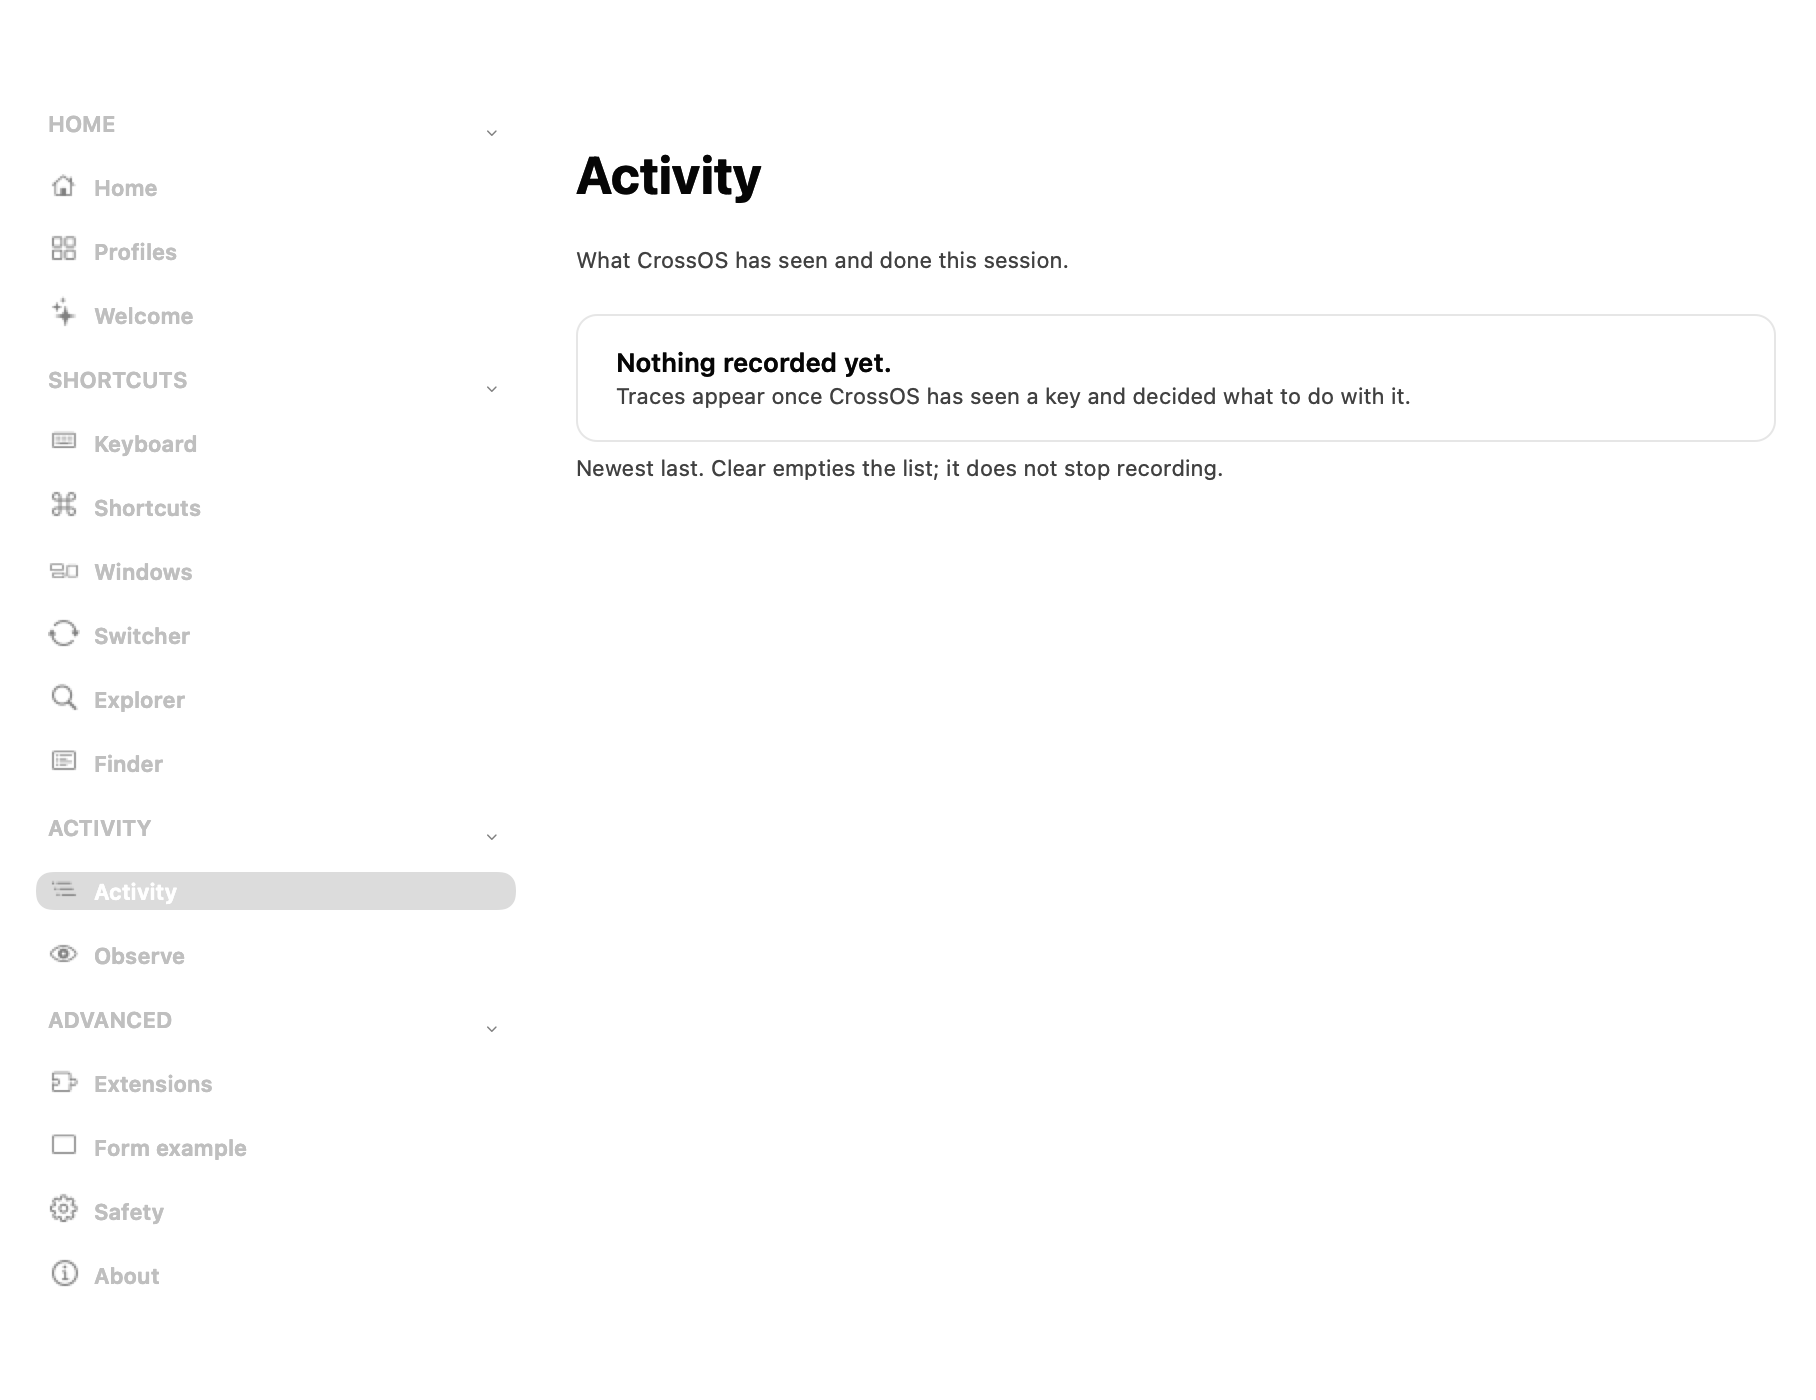
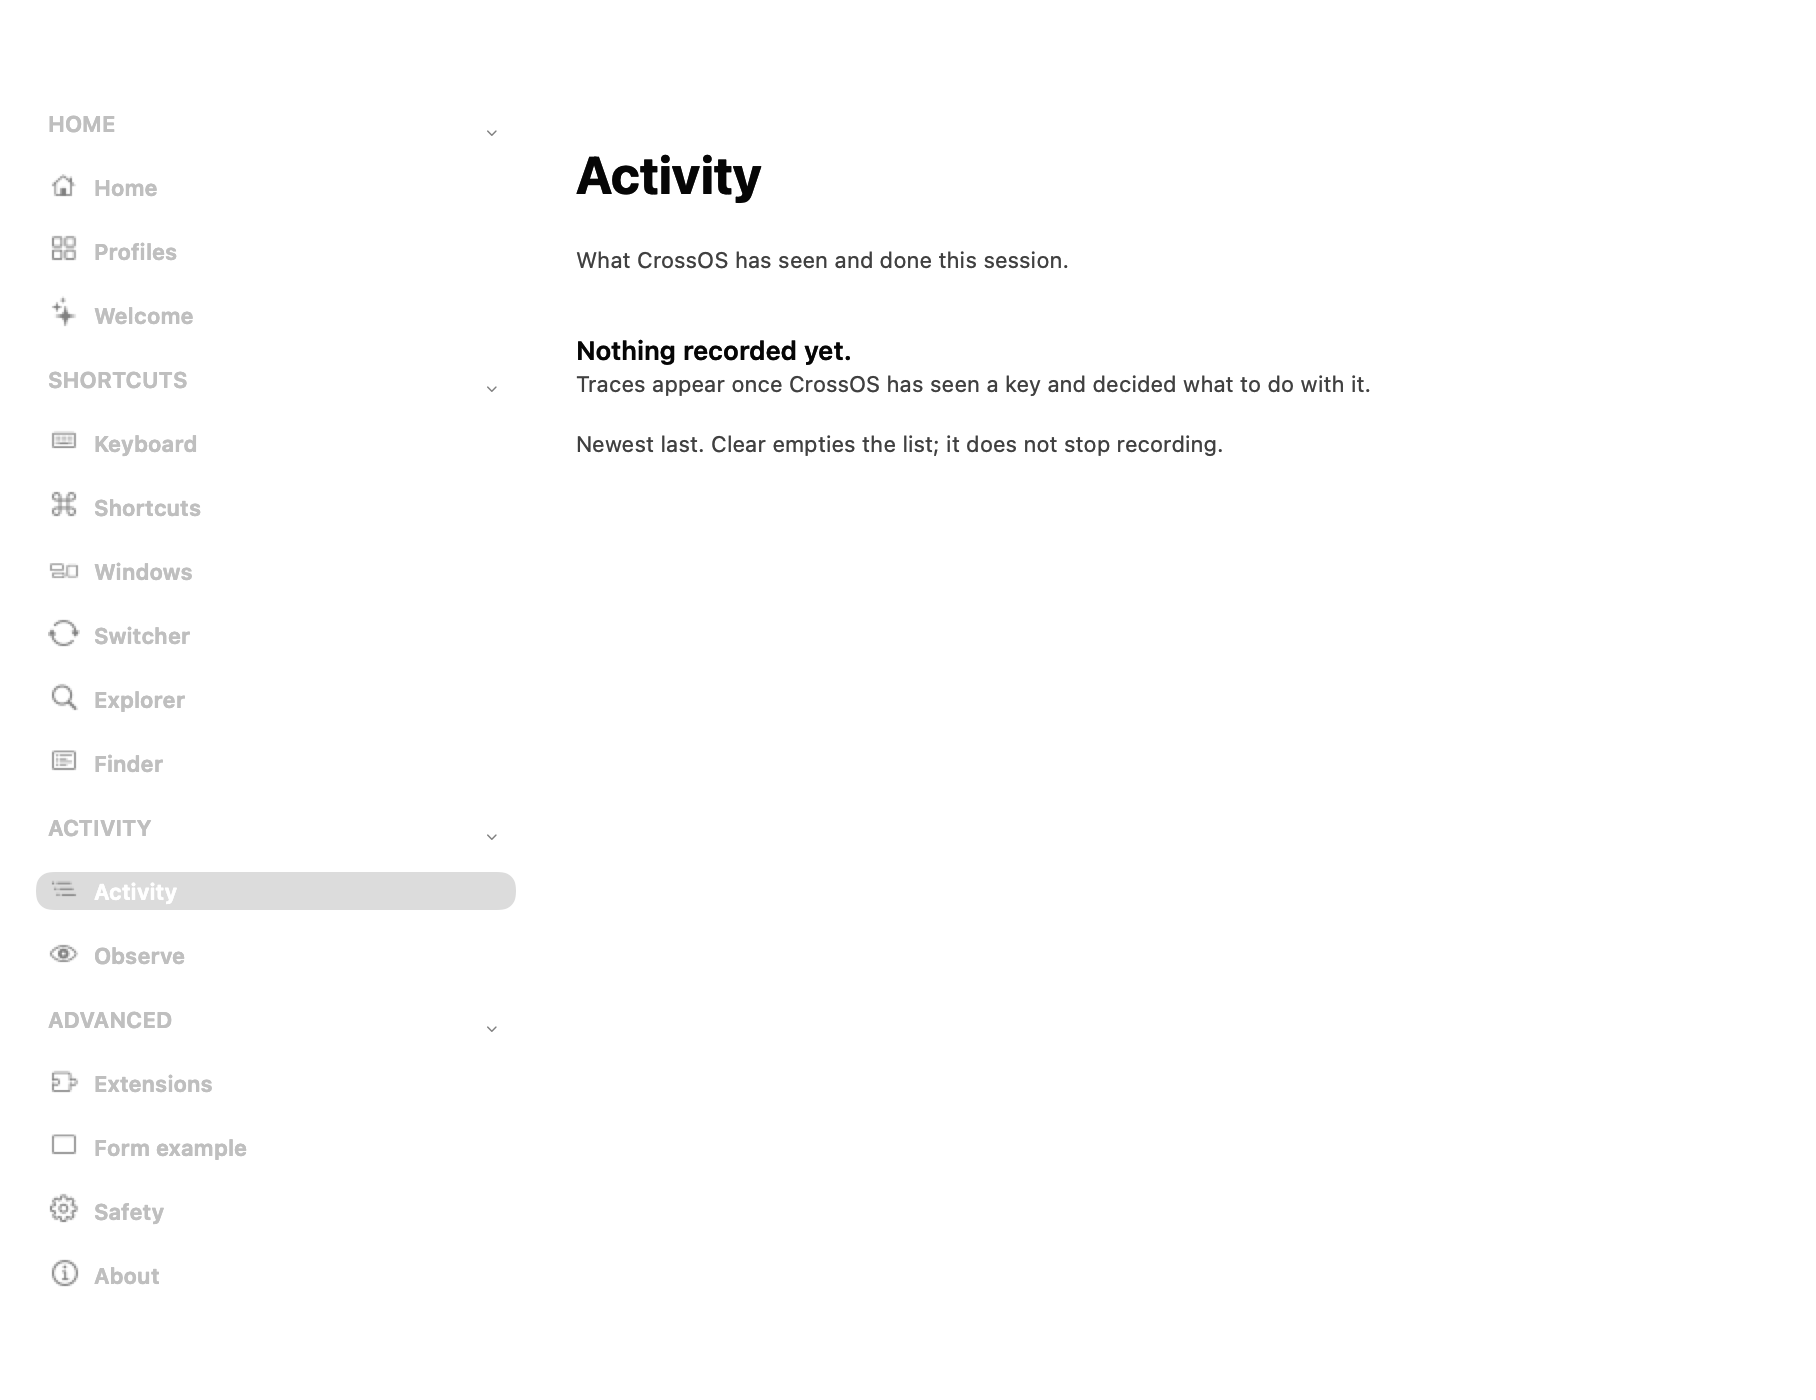
feat: the groups stop being cards — this is the design mistake, named
Eight commits of layout fixes, and the thing that made every page look
like a web form was a **design** decision I never questioned: a rounded
`controlBackgroundColor` fill with a hairline round it, around every
group.

**That is the iOS and Settings.app treatment. System Settings does not
do it.** Its content sits directly on the window background and a group
is made of SPACING and a shared left edge, not of a box. Measured before
this change, on `core.matrix` and on every page shaped like it: a title,
a sentence, a large bordered box, a caption, another bordered box, and
forty per cent of the window empty below. That is a web form with cards
— which is what it looked like, and what the complaint was.

So the group draws nothing. The hierarchy is carried by the type and the
rhythm instead of by a border around everything, which is the trade
System Settings makes too: a group of one-line rows is less obviously a
group at a glance, and a window looks like a window.

Two things the boxes were carrying that now have to be carried
differently, and both were measured:

**The measure was CENTRED, and centring only made sense while the box
existed.** With a box there was something to centre; without one it is
a column floating in the middle of the pane with the whole left margin
empty. Content is now against the pane's leading edge with the right
side free, which is what System Settings does: the 640pt is a limit on
how long a line gets, not a column to centre.
[…]

Changed region(s): [[0.3084, 0.2457, 0.7709, 0.3379]]

diff --git a/macos/Sources/CrossOSApp/Renderers.swift b/macos/Sources/CrossOSApp/Renderers.swift
@@ -236,9 +236,23 @@ class Card: NSStackView {
     ///
     /// Horizontal padding is wider than vertical on purpose: the content is
     /// text, and text needs air on its line but not above and below it.
+    /// **No horizontal padding.**
+    ///
+    /// It was `Gap.group` either side, because it was the padding INSIDE a
+    /// box — content sat 20pt in from the box's edge and the title sat 20pt
+    /// left of that, so the title and the rows were on two different
+    /// verticals with the difference only visible because there was a border
+    /// to see it against.
+    ///
+    /// With no box there is nothing to pad away from, and keeping the inset
+    /// just indents every group 20pt to the right of the title it belongs to
+    /// — measured on `core.home`, "Daemon" starting a third of the way into
+    /// the pane while "Home" is hard against it.
+    ///
+    /// Vertical padding stays: rows still need air above and below them.
     static let inset = NSEdgeInsets(
-        top: Gap.row + Gap.close, left: Gap.group,
-        bottom: Gap.row + Gap.close, right: Gap.group
+        top: Gap.row, left: 0,
+        bottom: Gap.row, right: 0
     )
 
     init(title: String? = nil) {
@@ -282,42 +296,33 @@ class Card: NSStackView {
     /// column of cards with doubled lines between them. macOS separates rows
     /// INSIDE a group with a single hairline that starts at the text's left
     /// edge and stops at the trailing inset.
+    /// **The group does not draw itself.**
+    ///
+    /// It used to: a rounded `controlBackgroundColor` fill with a hairline
+    /// round it, which is the iOS and Settings.app treatment — a card on a
+    /// page. System Settings does not do that. Its content sits directly on
+    /// the window background, and a group is made of SPACING and a shared
+    /// left edge, not of a box. Measured on `core.matrix` and every page like
+    /// it: a title, a sentence, a large bordered box, a caption, another
+    /// bordered box, and forty per cent of the window empty below. That reads
+    /// as a web form with cards, which is what it looked like and what the
+    /// complaint about it was.
+    ///
+    /// The insets stay, because they are what the spacing is measured from,
+    /// and the hierarchy is now carried by the type and the rhythm instead of
+    /// by a border around everything.
+    ///
+    /// What this gives up: a group no longer reads as a unit at a glance when
+    /// its rows are all one line tall. That is the trade System Settings makes
+    /// too, and it is the trade that makes a window look like a window.
     public override func draw(_ dirtyRect: NSRect) {
-        let inset = bounds.insetBy(dx: 0.5, dy: 0.5)
-        let path = NSBezierPath(roundedRect: inset,
-                                xRadius: Radius.card, yRadius: Radius.card)
-        Palette.cardBackground.setFill()
-        path.fill()
-        Palette.hairline.setStroke()
-        path.lineWidth = 1
-        path.stroke()
-
-        // **No internal separators, and that is a decision rather than an
-        // omission.**
-        //
-        // This drew a hairline between the rows of a group, worked out by
-        // descending through the content stack until it found something that
-        // looked like a list. It was wrong twice:
-        //
-        //   - reading one level down found the COLUMN, which has one child,
-        //     and drew nothing at all: measured, no group in the app had ever
-        //     had a separator between its rows
-        //   - descending far enough to find the rows then descended TOO far on
-        //     other pages, and on `core.windows` it drew a rule between
-        //     "No snap zones." and the paragraph under it — a headline split
-        //     from its own body by a line
-        //
-        // Limiting the walk to two levels removed the second case and left no
-        // separator anywhere, which is the correct behaviour for the groups
-        // that were drawing them wrongly.
-        //
-        // A macOS inset group does not require internal separators: the fill
-        // and the rows' own padding carry the grouping, and the rules that DO
-        // exist in System Settings are per-row separators declared by the
-        // control, not guessed by the container. A view that wants one should
-        // draw it. Guessing it from the shape of somebody else's stack is what
-        // produced both of the defects above.
+        // Deliberately empty. The doc above is the reason.
     }
+
+    /// Whether a group paints a box. False everywhere, kept as a switch so
+    /// the two treatments are both expressible and the choice is stated once
+    /// rather than scattered.
+    public static let drawsABox = false
 
     @available(*, unavailable)
     required init?(coder: NSCoder) { fatalError("Card is created in code") }
@@ -390,10 +395,7 @@ class Card: NSStackView {
         // layout places the content inside its inset rect, so stating it here
         // is what broke it.
         NSLayoutConstraint.activate([
-            view.widthAnchor.constraint(
-                equalTo: widthAnchor,
-                constant: -(Card.inset.left + Card.inset.right)
-            ),
+            view.widthAnchor.constraint(equalTo: widthAnchor),
         ])
     }
 }

diff --git a/macos/Sources/CrossOSApp/PageViewController.swift b/macos/Sources/CrossOSApp/PageViewController.swift
@@ -215,7 +215,20 @@ public final class PageViewController: NSViewController {
         measure.priority = .defaultHigh
         NSLayoutConstraint.activate([
             measure,
-            stack.centerXAnchor.constraint(equalTo: document.centerXAnchor),
+            // LEFT, not centred.
+            //
+            // Centring the measure was right while every group drew a box —
+            // the box had to go somewhere in the middle. With the boxes gone it
+            // is simply a column floating in the middle of the pane, and its
+            // rows start a third of the way in with the whole left margin
+            // empty. System Settings puts its content against the left edge of
+            // the pane and lets the right side breathe; the width is a limit
+            // on how long a line gets, not a column to centre.
+            stack.leadingAnchor.constraint(equalTo: document.leadingAnchor),
+            stack.trailingAnchor.constraint(
+                lessThanOrEqualTo: document.trailingAnchor,
+                constant: -(Gap.plane * 2)
+            ),
         ])
 
         view = container
